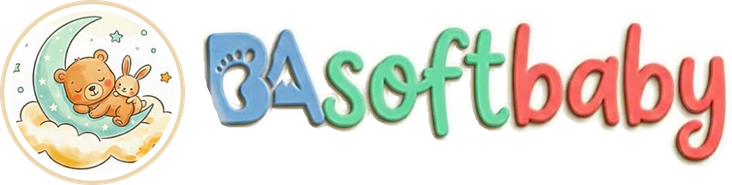
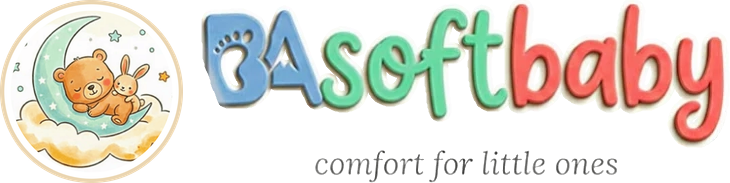
Yatay logoya slogan, koyu tema için açık sloganlı sürüm (K-160)
Claude-Session: https://claude.ai/code/session_0134fgwgjHVCL6A81WmzBW5Q

diff --git a/ui/ust-cubuk.tsx b/ui/ust-cubuk.tsx
@@ -1,4 +1,3 @@
-import Image from "next/image";
 import Link from "next/link";
 import AramaKutusu from "@/ui/arama-kutusu";
 import { HesapBaglantisi, SepetSayaci } from "@/ui/ziyaretci";
@@ -43,18 +42,20 @@ export default async function UstCubuk() {
       {/* Üst sıra: logo · arama · hesap ve sepet */}
       <div className="mx-auto flex max-w-6xl flex-wrap items-center gap-x-5 gap-y-3 px-4 py-3">
         <Link href="/" className="flex-none" aria-label="BASoftBaby ana sayfa">
-          {/* Yatay logo (K-160): rozetin amblemi ve yazısı yan yana, orijinal
-              görselden kesildi; yeniden çizilmedi. Yuvarlak rozet yazıyı
-              küçültüyordu, yatayda "BAsoftbaby" aynı yükseklikte okunuyor. */}
-          <Image
-            src="/marka/basoftbaby-yatay.webp"
-            alt="BASoftBaby"
-            width={732}
-            height={185}
-            priority
-            unoptimized
-            className="h-11 w-auto sm:h-14"
-          />
+          {/* Yatay logo (K-160): rozetin amblemi, yazısı ve sloganı yan yana,
+              orijinal görselden kesildi; yeniden çizilmedi. Koyu temada
+              slogan açık renkli dosyadan (koyu gri yazı zeminde kayboluyor). */}
+          <picture>
+            <source srcSet="/marka/basoftbaby-yatay-koyu.webp" media="(prefers-color-scheme: dark)" />
+            <img
+              src="/marka/basoftbaby-yatay.webp"
+              alt="BASoftBaby"
+              width={730}
+              height={183}
+              fetchPriority="high"
+              className="h-12 w-auto sm:h-[60px]"
+            />
+          </picture>
         </Link>
 
         <div className="ml-auto flex flex-none items-center gap-2 sm:order-last sm:ml-0">

diff --git a/docs/04-kararlar.md b/docs/04-kararlar.md
@@ -6209,7 +6209,12 @@ sorusu getiriyor; kullanım görülünce ayrıca ele alınabilir.
   da aynı tonda). Yöntem: doygun renkli harf pikselleri tohum; rozet
   çerçevesinin küçük noktaları alan boyutuyla atıldı; maske harflerin beyaz
   kenarı kadar (6 px) genişletildi. Harflerin kendi beyaz kenarı ve gölgesi
-  duruyor, arkadaki rozet zemini ve slogan ("comfort for little ones") yok.
+  duruyor, arkadaki rozet zemini yok.
+- **Slogan** ("comfort for little ones") da aynı görselden, aynı ölçekte
+  kesilip yazının altına orijinaldeki gibi ortalandı: koyu yazı zeminden
+  koyuluğuna göre ayrıldı (renkli benekler atıldı). Koyu temada koyu gri
+  slogan kayboluyordu; `basoftbaby-yatay-koyu.webp` sloganı açık renkte,
+  `<picture>` cihazın temasına göre seçiyor. Başlıkta 48 / 60 px.
 - Yuvarlak rozet diğer yerlerde (giriş sayfaları, paylaşım görseli, favicon,
   e-posta başlığı) aynen kullanılıyor.
 

diff --git a/docs/05-marka.md b/docs/05-marka.md
@@ -78,7 +78,8 @@ vektörünü ancak bir illüstratör çizebilir, otomatik dönüştürme dokuyu 
 
 ## Yatay logo (K-160)
 
-`public/marka/basoftbaby-yatay.webp` / `.png`: amblem + "BAsoftbaby" yazısı yan
-yana, orijinal görselden kesilmiş (yeniden çizim değil). Başlıkta kullanılıyor.
+`public/marka/basoftbaby-yatay.webp` / `.png`: amblem + "BAsoftbaby" yazısı ve
+altında slogan yan yana (koyu tema için `basoftbaby-yatay-koyu.webp`, slogan açık
+renkli), orijinal görselden kesilmiş (yeniden çizim değil). Başlıkta kullanılıyor.
 Yatay alanın dar olduğu yerlerde (başlık, e-posta üstü) bu; kare alanlarda
 (favicon, profil resmi, paylaşım görseli) yuvarlak rozet.
